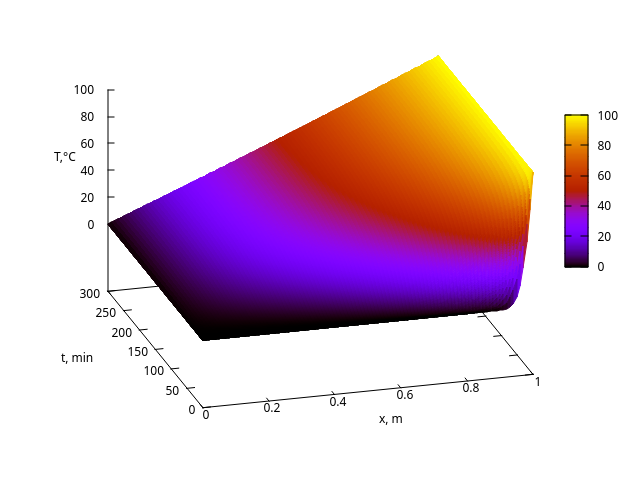
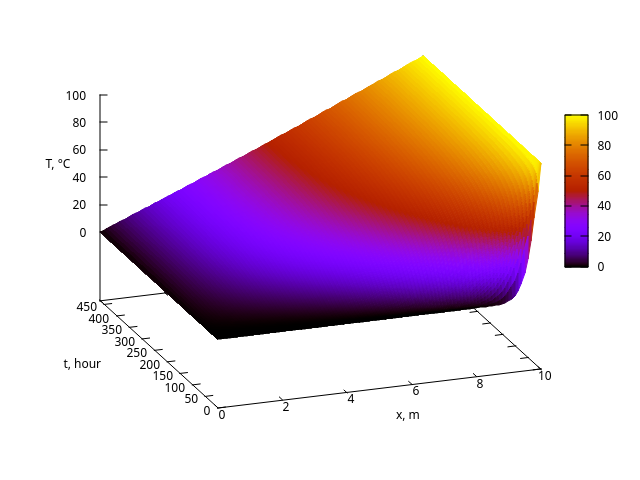
fix

diff --git a/main.py b/main.py
@@ -3,14 +3,60 @@ import matplotlib.pyplot as plt
 import imageio
 import os
 
-f = open('data.txt','w')
-tau = 0.01
-h = 0.01
-x = np.arange(0, 1+h, h)
-t = np.arange(0, 1+tau, tau)
 
-u = np.zeros(101 * len(x)).reshape(101, len(x))
-for i in range(101):
+tau = 600
+h = 0.1
+x = np.arange(0, 10+h, h)
+def exact_solution(x_i, t, a):
+    u = np.zeros(len(x))
+    for i in range(len(x)):
+        u[i] = x[i] * x[i] * np.exp(-(x_i - x[i]) * (x_i - x[i]) / (4 * a * a * t))
+    
+    return np.trapz(u, x) / (2 * a * np.sqrt(np.pi * t))
+    
+
+
+def diagonal(A):
+	C = make_coef(A)
+	answ = list()
+	answ.append(C[1][len(A) - 1])
+	for i in range(2, len(A) + 1):
+		answ.append(C[0][len(A) - i] * answ[i - 2] + C[1][len(A) - i])
+	return answ
+
+
+def make_coef(A):  
+    v = 0.0
+    C = list()
+    alpha = list()
+    beta = list()
+    alpha.append(-A[0][2] / A[0][1])
+    beta.append(A[0][3] / A[0][1])
+    for i in range(1, len(A)):
+        v = -A[i][1] - A[i][0] * alpha[i - 1]
+        if i == len(A) - 1:
+            alpha.append(0)
+        else:
+            alpha.append(A[i][2] / v)
+     
+        beta.append((A[i][0] * beta[i - 1] - A[i][3]) / v)
+    
+    C.append(alpha)
+    C.append(beta)
+    return C
+
+
+def norma(u):
+     u_0 = np.arange(0, 101)
+     result = u_0 - u
+     result = result ** 2
+     s = np.sum(result)
+     return np.sqrt(s)
+
+
+f = open('data.txt','w')
+u = np.zeros(2 * len(x)).reshape(2, len(x))
+for i in range(2):
     u[i][100] = 100
 
 a = 23e-6
@@ -21,22 +67,41 @@ plt.ylabel('T, °C')
 plt.savefig("./image/output0000.png")
 number = 1
 plt.close()
-for j in range(1, len(x)):
-    f.write(f"{j * h} 0 0\n")
+eps = 10
+norm = 100
+i = 0
+while norm > eps:
+    i += 1
+    if i % 6 == 0:
+         f.write(f"0 {i / 6} 0\n")
+    step = len(x)
+    coeff = tau * a / (h * h)
+    A = np.zeros(4 * (step - 2)).reshape((step - 2), 4)
+    A[0][1] = 1 + 2 * coeff
+    A[0][2] = -coeff
+    A[0][3] = u[i % 2 - 1][1] + coeff * u[i % 2][0]
+    for j in range(1, step-3):
+        A[j][0] = -coeff
+        A[j][1] = 1 + 2 * coeff
+        A[j][2] = -coeff
+        A[j][3] = u[i % 2 - 1][j + 1]
+        
+    A[step-3][0] = -coeff
+    A[step-3][1] = 1 + 2 * coeff
+    A[step-3][3] = u[i % 2 - 1][step - 2] + coeff * u[i % 2][step - 1]
+	
+    answ = diagonal(A)
+    for j in range(1, len(answ) + 1):
+        u[i % 2][j] = answ[-j]
+        if i % 6 == 0:
+             f.write(f"{j * h} {i / 6} {u[i % 2][j]}\n")
 
-for i in range(1, (len(t)- 1) * 18000 + 1):
-    if i % 1800 == 0:
-        f.write(f"0 {i / 6000} 0\n")
-    for j in range(1, len(x) - 1):
-        u[i % 101][j] = u[i % 101-1][j] + tau * a * (u[i % 101-1][j+1] - 2 * u[i % 101-1][j] + u[i % 101-1][j-1]) / (h * h)
-        if i % 1800 == 0:
-            f.write(f"{j * h} {i / 6000} {u[i % 101][j]}\n")
-    
-    if i % 1800 == 0:
-        f.write(f"1 {i / 6000} 100\n\n")
-    if i % 30000 == 0:
-        plt.plot(x, u[0])
-        plt.title(f"Время: {i / 6000} мин")
+    if i % 6 == 0:
+         f.write(f"10 {i / 6} 100\n\n")
+    norm = norma(u[i % 2])
+    if i % 30 == 0:
+        plt.plot(x, u[i % 2])
+        plt.title(f"Время: {i / 6} часов")
         plt.xlabel('x, м')
         plt.ylabel('T, °C')
         plt.savefig("./image/output" + '0' * (4-len(str(number))) + str(number)  +".png")
